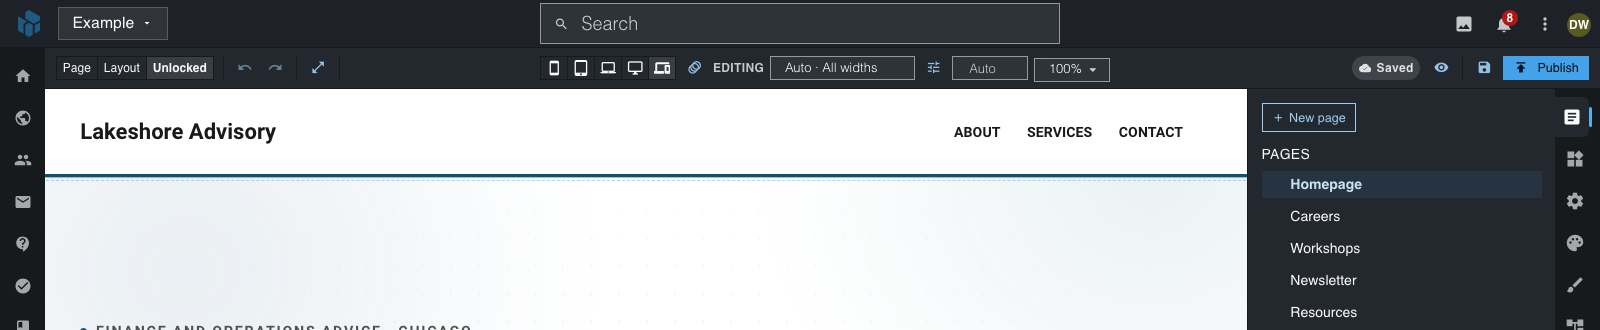
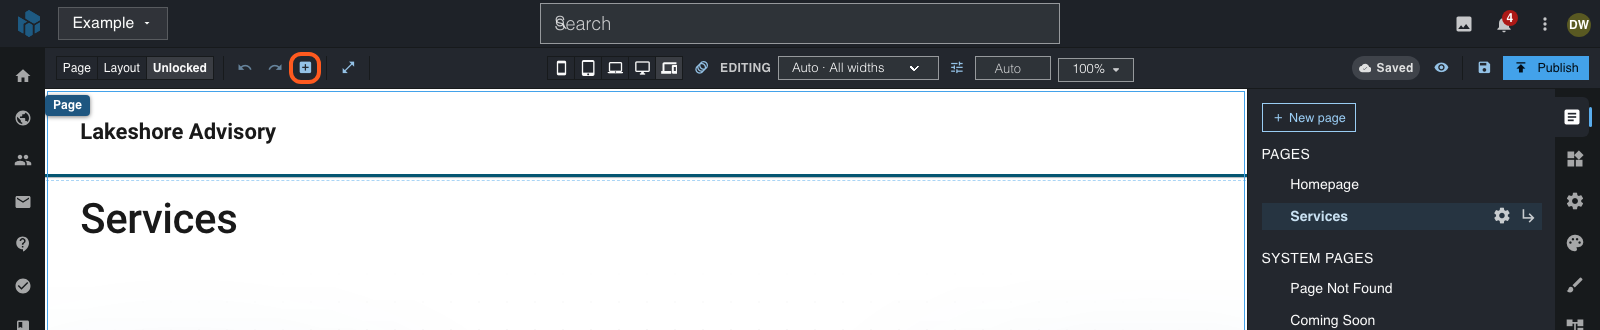
Builder: docs for adding and saving sections
The help centre now walks through the Add a section window, its four ways in, the + between sections and Save as section, with six new screenshots. The Add panel and glossary entries now say it holds blocks.

Step: internal-docs/plans/sandbox/builder-section-browser/plan.md 4.2

diff --git a/website-builder/adding-components.md b/website-builder/adding-components.md
@@ -1,6 +1,6 @@
 # Adding Components to Your Page
 
-**Last verified:** 2026-11-10 11:40pm
+**Last verified:** 2026-11-11 5:44pm
 
 Components are the building blocks of your website. Every piece of content on your page -- text, images, buttons, sections, and more -- is a component. This guide shows you how to find, add, arrange, and manage components in the Website Builder.
 
@@ -20,11 +20,11 @@ A new, empty page opens on a list of ready-made sections, right on the Canvas. T
 
 1. Open the **Website Builder** for your new page.
 2. Under **Start with a ready-made section**, find one you like. To see one type, such as Pricing, use the list above the pictures.
-3. Select the picture, or press **Add**. The section goes on your page and the **Add** panel opens, so you can add the next one.
+3. Select the picture, or press **Add**. The section goes on your page. To add the next one, press **Add section** at the top of the builder.
 
 ![The ready-made section list on an empty page, with Show all 26 sections ringed](../images/website-builder/adding-components-start-new-page.png)
 
-To see them all, choose **Show all**. To start with an empty page and single blocks, choose **Build from blocks**. If you change your mind about a section, press **Undo**. When you leave the **Add** panel on an empty page, the list comes back.
+To see them all, choose **Show all**. The **Add a section** window opens (see [Add a Section](#add-a-section)). To start with an empty page and single blocks, choose **Build from blocks**. To take a section back, press the **Undo** arrow at the top of the builder.
 
 The sections at the top of the list, under **Made for your site's design**, come with your site's theme. **More sections** take their colors and fonts from your theme too.
 
@@ -33,7 +33,7 @@ The sections at the top of the list, under **Made for your site's design**, come
 ## How to Add a Component
 
 1. Open the **Website Builder** for the page you want to edit.
-2. Click **Add** in the panel rail on the **right** side of the screen. You will see every available component, organized into groups. To find one fast, type a name or a plain word, such as "movie", in **Search sections and blocks**.
+2. Click **Add** in the panel rail on the **right** side of the screen. You will see every available block, organized into groups. To find one fast, type a name or a plain word, such as "movie", in **Search blocks**. To add a whole designed section instead, see [Add a Section](#add-a-section).
 3. Find the component you want to add.
 4. **Click and hold** on the component, then **drag it** onto the Canvas (the main area showing your page).
 5. Drop it where you want it to appear. You will see a visual guide showing you where the component will land.
@@ -51,25 +51,47 @@ The component will appear on your page immediately. You can now click on it to e
 
 ![The Add panel after a search for movie, showing one match: the Video block](../images/website-builder/adding-components-search.png)
 
-At the top of the **Add** panel, the **Search sections and blocks** box finds a block by its name or by a plain word. Type "movie" and **Video** appears; "newsletter" finds **Email Signup**. A longer search needs every word to match. The box finds sections too (see [Add a Ready-Made Section](#add-a-ready-made-section)): "restaurant" finds **Book a time**. Under the box, a line says what you see, such as "56 blocks and 26 sections." (the count depends on your site: a block for a module you have not turned on is not listed), or "2 blocks and 3 sections match “hero”." while you search. Press **Esc** or choose **Clear search** to see everything again. If nothing matches, the panel says so and offers **Show all blocks**.
+At the top of the **Add** panel, the **Search blocks** box finds a block by its name or by a plain word. Type "movie" and **Video** appears; "newsletter" finds **Email Signup**. A longer search needs every word to match. Under the box, a line says how many blocks you see, such as "56 blocks." The count depends on your site, because a block for a module you have not turned on is not listed. While you search, the line reads like "2 blocks match "hero"." Press **Esc** or choose **Clear search** to see everything again.
 
-The blocks sit in groups by what you want to do. Select a group's name to open or close it. The first time you open the panel, **Ready-made sections** and **Layout** are open; after that the panel remembers which groups you opened. While you search, every group with a match opens by itself.
+When no block matches but your words fit a section, the panel shows **Looking for a section? Add section**. Select **Add section** and the **Add a section** window opens with your words in its search box. When nothing matches at all, the panel says so and offers **Show all blocks**.
 
-## Add a Ready-Made Section
+![The Add panel after a search for restaurant: no block matches, so the panel offers Add section](../images/website-builder/add-panel-section-line.png)
 
-A section is a designed part of a page, such as a banner at the top or three customer reviews, made of several blocks. The first group of the **Add** panel, **Ready-made sections**, lists them. It shows the first four; **Show all** shows the rest. Each one is a small live picture of the section in your theme, as tall as the section itself.
+The blocks sit in groups by what you want to do. Select a group's name to open or close it. The first time you open the panel, **Layout** is open. After that the panel remembers which groups you opened. While you search, every group with a match opens by itself.
 
-1. Open the **Add** panel. If **Ready-made sections** is closed, select its name.
-2. Select one section on your page if you want the new one to go right after it. If you select nothing, the new section goes at the end of the page.
-3. Select the picture, or press **Add**. The section goes in and is selected, so you can start changing its words.
+## Add a Section
 
-A line at the top of the group says what was added, for example "Added “Customer reviews” after “Section”.", and offers **Undo**. Press **Undo** to take the section back. The line goes away as soon as you change anything else on the page, so **Undo** never takes back something you did later. You can also drag a picture onto the page and drop it where you want it. One **Undo** (or the Undo button at the top of the page) removes the whole section.
+A section is a designed part of a page, such as a banner at the top or three customer reviews, made of several blocks. You choose one in the **Add a section** window. The window fills the screen, so each section shows as a large live picture in your theme, as tall as the section itself.
 
-The **More sections** list holds 23 sections: five heroes (**Hero with photo**, **Hero, centred**, **Hero, words over a photo**, **Hero, centred over a wide photo** and **Hero with photo collage**), two that describe what you do (**Three reasons** and **Services, three cards with tags**), **How we work, four numbered steps**, two call-to-action bands (**Call to action band** and **Closing call to action**), three that show proof (**Customer reviews**, **Customer quote** and **Case study**), **Results, two stories with photos**, two with numbers (**Facts strip, three short lines** and **Numbers that count**), **Pricing, three plans**, **Questions and answers**, **Contact details**, **Meet the team**, **Logos of clients**, **Portfolio gallery** and **Book a time**. With the Forms add-on, the list has two more: **Hero with contact form** and **Contact with form**. Each one takes its colors, fonts and corners from your theme, so it looks right in light and dark mode on every built-in theme. Search finds them by the words you would use, for example "restaurant" finds **Book a time**.
+![The Add a section window: types on the left, a search box and a Show choice at the top, and a picture of each section with an Add button](../images/website-builder/add-section-window.png)
+
+There are four ways to open the window. All four open the same window.
+
+1. **From the top of the builder.** Press **Add section**, the button with the plus sign next to the Undo and Redo arrows. On a narrow screen, it is in the **More** menu.
+2. **From a plus under a section.** Point at the bottom edge of a section, or Tab to it with the keyboard. A round **+** appears. Select it to add a section right after that section. On a touch screen, every **+** shows all the time.
+3. **From an empty page.** Choose **Show all** under **Start with a ready-made section**.
+4. **From the Add panel.** Search for something that is not a block, such as "restaurant", and select **Add section** in the line **Looking for a section?**.
+
+![A plus button between two sections, ringed](../images/website-builder/add-section-plus.png)
+
+In the window:
+
+1. Type in **Search sections** to narrow the list. Use plain words, such as "restaurant" or "prices". The box is ready for you to type when the window opens.
+2. Pick a type on the left, such as **Hero**, **Pricing** or **FAQ**. The number beside each type counts its sections.
+3. Use **Light** or **Dark** above the pictures to see the sections in either mode. Use **Desktop** or **Phone** to see how they look on a phone. The window remembers both choices.
+4. Select a picture, or press **Add**.
+
+The section goes in, the window closes, and the new section is selected, so you can start changing its words. A line for screen readers says where it went. From the top button, from the empty page and from the **Add** panel, the section goes right after the section you selected. With nothing selected, it goes at the end of the page. From a **+**, it goes right after the section above that **+**.
+
+To take a section back, press the **Undo** arrow at the top of the builder. One press removes the whole section.
+
+You can add sections only on a page, and only if you may edit the website builder. In a layout or a widget, the **Add section** button and the **+** do not show.
+
+The **Ready-made** source holds 23 sections: five heroes (**Hero with photo**, **Hero, centred**, **Hero, words over a photo**, **Hero, centred over a wide photo** and **Hero with photo collage**), two that describe what you do (**Three reasons** and **Services, three cards with tags**), **How we work, four numbered steps**, two call-to-action bands (**Call to action band** and **Closing call to action**), three that show proof (**Customer reviews**, **Customer quote** and **Case study**), **Results, two stories with photos**, two with numbers (**Facts strip, three short lines** and **Numbers that count**), **Pricing, three plans**, **Questions and answers**, **Contact details**, **Meet the team**, **Logos of clients**, **Portfolio gallery** and **Book a time**. With the Forms add-on, the list has two more: **Hero with contact form** and **Contact with form**. Each one takes its colors, fonts and corners from your theme, so it looks right in light and dark mode on every built-in theme. Search finds them by the words you would use, for example "restaurant" finds **Book a time**.
 
 The heroes with photos, **Results**, **Meet the team** and **Portfolio gallery** have example photos. When you add one, its photos go into your media library under **Files**. To use your own picture, select the photo on your page and choose another from your media library. The words, prices and names are examples. Change them to yours. **Contact details** has your phone number and email as links. **Contact with form** puts a contact form beside them, and **Hero with contact form** puts one beside your headline. When you add either, it uses your form made from the **Contact Form** template, or makes that form for you. To change the questions, open the form under **Forms**. In **Book a time**, open the booking block and enter your booking address.
 
-Use **Show** to narrow the list to one type, such as Hero, Pricing or FAQ, or to the sections you saved. The list has up to three parts, in this order: **Saved by you**, **Made for your site's design** (sections that come with your theme, shown only while that theme is on your site) and **More sections**. If a picture does not load, the tile says "Preview not available". You can still add the section, and **Try again** loads the picture again.
+Use **Show** at the top of the window to narrow the list to one source: **All**, **Made for your site's design** (sections that come with your theme, shown only while that theme is on your site), **Ready-made** or **Saved by you**. A type, a source and your search work together. If nothing matches, the window says so and offers **Clear filters**. If a picture does not load, the tile says "Preview not available". You can still add the section, and **Try again** loads the picture again.
 
 Bold Deco, Kiln, Midnight Slate and Soft Elegant have no sections of their own right now, so **Made for your site's design** stays empty on them. Every theme uses the **More sections** list. Together, they make a whole page: a hero, what you offer, how you work, reviews, prices, questions and a closing call to action. They come with real photos, so a section looks finished when you add it. When you add one, its photos go into your media library under **Files**. Add the same section again and it uses the same files, so nothing is copied twice. To use your own picture, select the photo on your page and choose another from your media library. If the photos cannot be added, a message says so and the section is not added; try again. If you change to another theme, **Made for your site's design** shows that theme's sections, and the sections already on your pages stay and take the new theme's look.
 
@@ -77,19 +99,25 @@ Bold Deco, Kiln, Midnight Slate and Soft Elegant have no sections of their own r
 
 When you have made a part of a page you like, save it as a section and add copies of it to other pages. It keeps its blocks, its words and its look.
 
-1. Right-click the section on your page. (On a keyboard, select it and press **Shift+F10** or the menu key.)
-2. Choose **Save as section**. Under it, the menu says "A copy to reuse. Each copy changes on its own."
+1. Select the section on your page.
+2. In the small toolbar above it, press the bookmark button, **Save as section**. You can also right-click the section and choose **Save as section** (on a keyboard, press **Shift+F10** or the menu key). Under it, the menu says "A copy to reuse. Each copy changes on its own."
 3. Give it a name. If you already have a section with that name, the window says the name it will get, such as "Open day (2)".
-4. Optional: pick a **Type**, such as Hero or Pricing, or type your own. The type sorts the **Ready-made sections** group.
+4. Optional: pick a **Type**, such as Hero or Pricing, or type your own. The type sorts the section in the **Add a section** window.
 5. Choose **Save section**.
 
-A small picture of the section shows at the top of the window, so you can check what you save. After the save, the **Add** panel opens on **Saved by you**, and the new section wears "Just saved". Add it to any page of the site, as you add a ready-made one.
+![The small toolbar above a selected section, with the Save as section button ringed](../images/website-builder/save-as-section-button.png)
+
+A small picture of the section shows at the top of the window, so you can check what you save. After the save, a message says "Saved "Name". Find it under Add section → Saved by you." Press **Open** in the message to see it: the **Add a section** window opens on **Saved by you**, and the new section wears "Just saved". Add it to any page of the site, as you add a ready-made one.
+
+![The message after a save, with its Open button ringed](../images/website-builder/save-as-section-toast.png)
 
 A saved section is a copy. Changing it on one page never changes the other pages, and never changes the saved section. For one block that stays the same everywhere you use it, make a [widget](widgets.md) instead.
 
 You cannot save the page content area itself, or a part of the page that holds it: the menu item is off and says "Pick a section on your page. The page content area cannot be saved." A section with an **HTML** block in it cannot be saved either, because an HTML block holds code.
 
-**Rename or delete a saved section:** in **Saved by you**, open the **⋮** menu on its tile.
+**Rename or delete a saved section:** in the **Add a section** window, choose **Saved by you** and open the **⋮** menu on its tile.
+
+![A saved section's tile with its menu open, showing Rename and Delete](../images/website-builder/add-section-saved-by-you.png)
 
 - **Rename** gives it a new name.
 - **Delete** asks first. It removes the section from your saved sections for good. Pages that already use it keep their copy.
@@ -98,7 +126,7 @@ Saving, renaming and deleting a section needs permission to edit the website bui
 
 ## Component Categories
 
-Components are grouped by what you want to do. **Ready-made sections** comes first and is described above. The block groups follow: Layout, Text, Media, Interactive, Marketing and Site modules. **Header & Footer Widgets**, at the end, holds your own header and footer widgets.
+The **Add** panel groups blocks by what you want to do: Layout, Text, Media, Interactive, Marketing and Site modules. **Header & Footer Widgets**, at the end, holds your own header and footer widgets. Sections are not in this panel. Add them from the **Add a section** window, described above.
 
 ![The Add panel showing component categories](../images/website-builder/component-palette.png)
 

diff --git a/website-builder/builder-overview.md b/website-builder/builder-overview.md
@@ -1,6 +1,6 @@
 # Website Builder Overview
 
-**Last verified:** 2026-11-07 10:00am
+**Last verified:** 2026-11-11 5:44pm
 
 The Website Builder is where you design and create your web pages. It is a visual editor -- meaning you can see exactly how your page will look as you build it. No coding required.
 
@@ -54,6 +54,7 @@ The toolbar along the top of the screen holds your main controls:
 **On the left:**
 - **Edit mode** -- Choose whether you are editing the **Page**, its **Layout** (the shared header/footer), or **Unlocked** (everything at once)
 - **Undo and Redo**
+- **Add section**: The button with the plus sign. It opens the **Add a section** window, where you pick a designed section for your page (see [Add a Section](adding-components.md#add-a-section)). On a narrow screen, it is in the **More** menu.
 - **Canvas View** -- Toggle the multi-page pan-and-zoom canvas
 
 **In the middle:**
@@ -104,8 +105,8 @@ On a window narrower than 1200px, such as a tablet, the workspace menu on the fa
 
 Building a page follows a simple pattern. Here is the basic workflow:
 
-1. **Pick a ready-made section or a component.** A new, empty page opens on a list of [ready-made sections](adding-components.md#start-a-new-page): select one to add it. For anything else, use the **Add** panel. Type a name or a plain word in **Search sections and blocks** ("movie" finds Video), or open a group such as Layout, Text or Media (a text block, an image, a button, and so on).
-2. **Drag it onto your page.** Drop it wherever you want it to appear on the Canvas.
+1. **Pick a ready-made section or a block.** A new, empty page opens on a list of [ready-made sections](adding-components.md#start-a-new-page): select one to add it. To add a section later, press **Add section** at the top of the builder, or use the **+** under a section ([Add a Section](adding-components.md#add-a-section)). For a single block, use the **Add** panel. Type a name or a plain word in **Search blocks** ("movie" finds Video), or open a group such as Layout, Text or Media (a text block, an image, a button, and so on).
+2. **Drag a block onto your page.** Drop it wherever you want it to appear on the Canvas. A section needs no dragging: it goes in when you press **Add**.
 3. **Click to select and edit.** Click on the component you just added. If it has text, click the text to start typing. If it is an image, click it to change the picture.
 4. **Style it in the Styles panel.** With the component selected, open **Styles** to adjust colors, spacing, fonts, and other visual settings.
 5. **Save and publish.** When you are happy with your changes, click **Save draft** to store your work. When you are ready for the world to see it, click **Publish**.

diff --git a/getting-started/glossary.md b/getting-started/glossary.md
@@ -1,6 +1,6 @@
 # Glossary of Terms
 
-**Last verified:** 2026-11-07 9:47am
+**Last verified:** 2026-11-11 5:44pm
 
 This glossary explains common terms you will encounter while using WebNesting. If you come across a word you do not recognize, check here for a quick explanation.
 
@@ -20,7 +20,9 @@ This glossary explains common terms you will encounter while using WebNesting. I
 
 **Component** -- A building block in the Website Builder. Components include things like text blocks, images, buttons, sections, cards, and more. You build your pages by adding and arranging components.
 
-**Add panel** (component palette) -- The panel in the Website Builder that lists all available components. Open it from the icon rail on the right, then drag components onto the Canvas to add them to your page.
+**Add panel** (component palette): The panel in the Website Builder that lists all available blocks. Open it from the icon rail on the right, then drag blocks onto the Canvas to add them to your page.
+
+**Add a section** (window): The full-screen window where you pick a designed section for your page. Open it with **Add section** at the top of the Website Builder, with the **+** under a section, or from an empty page.
 
 **Dashboard**: the admin area where you manage your site's content, settings, and features. You access it by signing in to the WebNesting app, opening your workspace, and selecting **Sites**, then **Overview**, then **Manage Site** on your site's card. The Dashboard is your home base for everything that happens behind the scenes of your website.
 

diff --git a/dashboard/themes-and-customization.md b/dashboard/themes-and-customization.md
@@ -286,7 +286,7 @@ The theme joins **Your themes**. Nothing is added until you click **Add to This 
 - **A theme made from a theme your site doesn't have.** We keep its colors and fonts on top of Default, so it looks the same.
 - **A font that wasn't in the file.** A similar Google font stands in until you upload that font yourself.
 - **Settings WebNesting doesn't have yet.** We leave them out and name them.
-- **Ready-made sections.** A theme can come with its own sections. The upload says how many come with it, and they show in the Builder's **Ready-made sections** list while that theme is on your site. Some sections use named Styles. When you add one on a site that has none of them, the site gets those Styles first. If one section doesn't work, we leave it out and name it. The rest still come in.
+- **Ready-made sections.** A theme can come with its own sections. The upload says how many come with it, and they show in the Builder's **Add a section** window, under **Made for your site's design**, while that theme is on your site. Some sections use named Styles. When you add one on a site that has none of them, the site gets those Styles first. If one section doesn't work, we leave it out and name it. The rest still come in.
 - **A name your site already has.** The theme gets a number, such as "Bakery (2)". You can type another name.
 
 WebNesting refuses a file that isn't a theme file, or one that contains code, and adds nothing.
